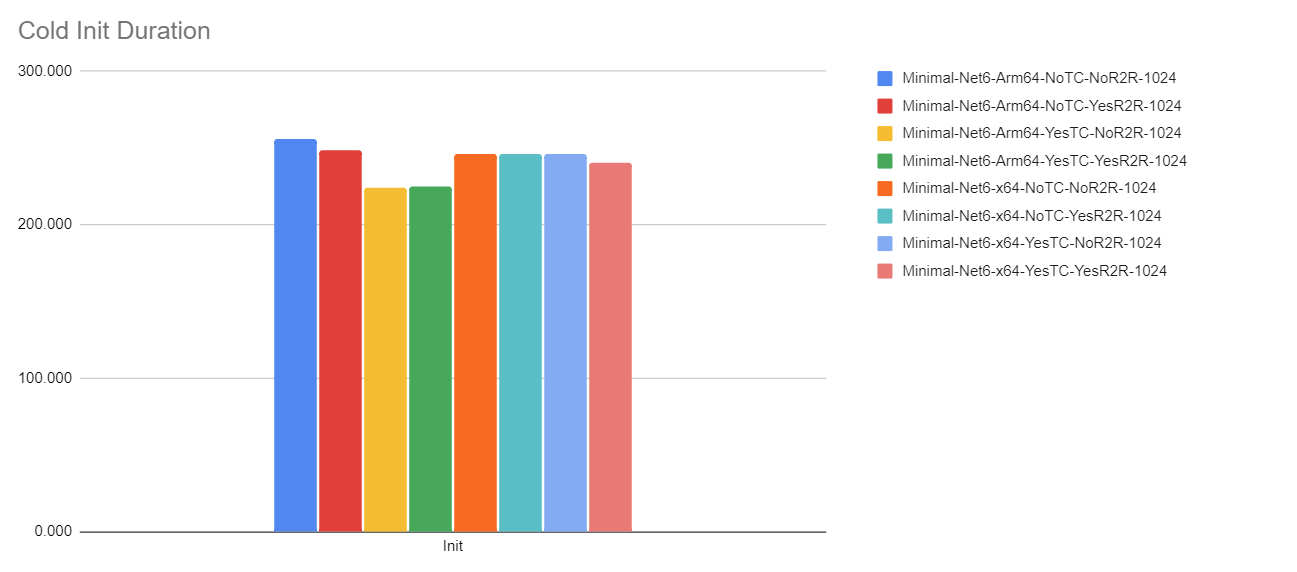
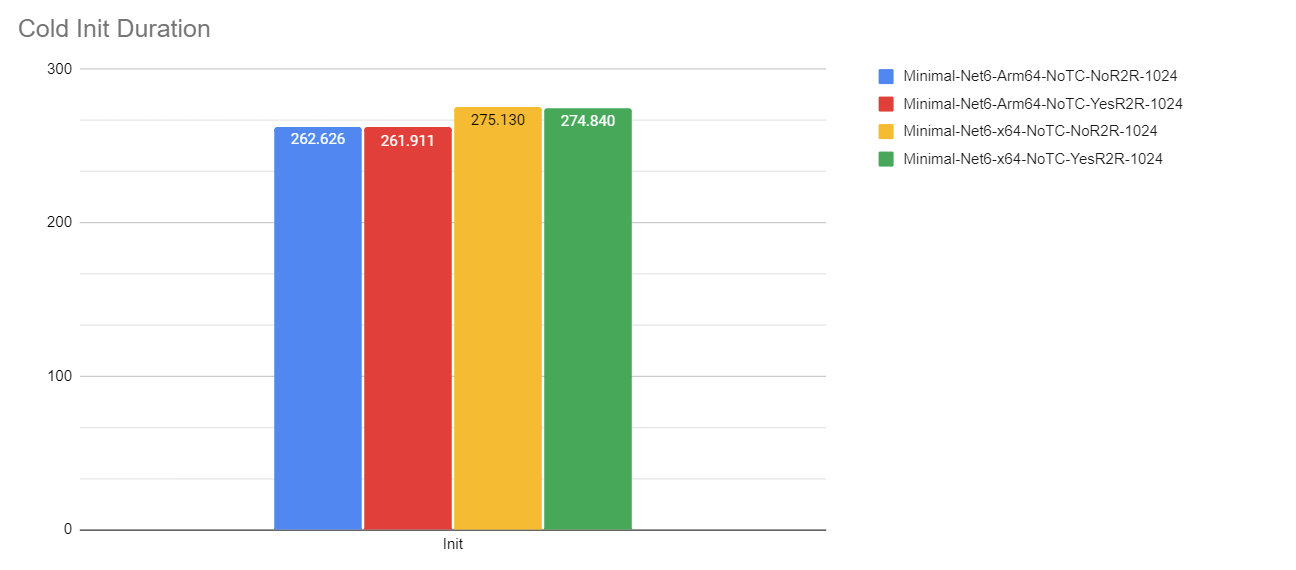
WIP

diff --git a/README.md b/README.md
@@ -5,24 +5,50 @@ This module is used to benchmark .NET Lambda functions with different compilatio
 The measurements are captured in an interactive [Google Sheets dashboard](https://docs.google.com/spreadsheets/d/1ULCEIbXPXFWzv8m-FMnh6b0T4acgZDavJxwY7-NKGdo/edit?usp=sharing).
 
 ## Projects
-1. [Minimal](Projects/Minimal/)
-1. [AwsSdk](Projects/AwsSdk/)
-1. [NewtonsoftJson](Projects/NewtonsoftJson/)
-1. [SystemTextJson](Projects/SystemTextJson/)
-1. [SourceGeneratorJson](Projects/SourceGeneratorJson/)
+1. [AwsSdk](Projects/AwsSdk/): benchmark using AWS .NET SDK
+1. [Minimal](Projects/Minimal/): minimal baseline project
+1. [NewtonsoftJson](Projects/NewtonsoftJson/): benchmark using Newtonsoft JSON.NET
+1. [SampleAwsNewtonsoftTopLevel](Projects/SampleAwsNewtonsoftTopLevel/)
+1. [SampleAwsSystemTextJsonTopLevel](Projects/SampleAwsSystemTextJsonTopLevel/)
+1. [SampleMinimalApi](Projects/SampleMinimalApi/)
+1. [SourceGeneratorJson](Projects/SourceGeneratorJson/): benchmark using .NET 6+ source generators for JSON parsing
+1. [SystemTextJson](Projects/SystemTextJson/): benchmark using System.Text.Json
+
+## Benchmark Results (CSV)
+
+1. [AwsSdk](Data/AwsSdk%20(2022-06-02).csv)
+1. [Minimal](Data/Minimal%20(2022-06-02).csv)
+1. [NewtonsoftJson](Data/NewtonsoftJson%20(2022-06-02).csv)
+1. [SampleAwsNewtonsoftTopLevel](Data/SampleAwsNewtonsoftTopLevel%20(2022-06-03).csv)
+1. TODO: [SampleAwsSystemTextJsonTopLevel](Data)
+1. [SampleMinimalApi](Data/SampleMinimalApi%20(2022-06-03).csv)
+1. [SourceGeneratorJson](Data/SourceGeneratorJson%20(2022-06-02).csv)
+1. [SystemTextJson](Data/SystemTextJson%20(2022-06-02).csv)
 
 ## Reports
-1. [Tiered Compilation and ReadyToRun Options](Docs/Tiered-Ready2Run-Options.md)
-1. TODO: .NET 6 vs. .NET 3.1
-1. TODO: ARM64 vs. x86-64
+1. TODO: .NET 6 vs. .NET Core 3.1
+    1. .NET 6
+        1. [Tiered Compilation and ReadyToRun Options](Docs/Tiered-Ready2Run-Options.md)
+        1. TODO: ARM64 vs. x86-64
+        1. TODO: Newtonsoft vs. System.Text.Json vs. Source Generators
+        1. TODO: Function vs. Custom Runtime vs. Top-Level Statements
+    1. .NET Core 3.1
 
-## Measurements
+## Using LambdaSharp.Benchmark
 
-1. [Minimal](Data/Minimal%20%5Bus-west-2%5D%20(2022-04-05).csv)
-1. [AwsSdk](Data/AwsSdk%20%5Bus-west-2%5D%20(2022-04-05).csv)
-1. [NewtonsoftJson](Data/NewtonsoftJson%20%5Bus-west-2%5D%20(2022-04-05).csv)
-1. [SystemTextJson](Data/SystemTextJson%20%5Bus-west-2%5D%20(2022-04-05).csv)
-1. [SourceGeneratorJson](Data/SourceGeneratorJson%20%5Bus-west-2%5D%20(2022-04-05).csv)
+TODO: how to deploy and analyze a project
+
+[Install LambdaSharp tooling and create a deployment tier.](https://lambdasharp.net)
+
+Deploy the LambdaSharp.Benchmark module to your AWS account.
+```bash
+lash deploy LambdaSharp.Benchmark@lambdasharp
+```
+
+Use the `measure.sh` script to package your project and upload it to the benchmarking S3 bucket.
+```bash
+measure.sh <PROJECT-TO-MEASURE> <NAME-OF-S3-BUCKET>
+```
 
 ## License
 

diff --git a/Docs/Ready2Run.md b/Docs/Ready2Run.md
@@ -1,0 +1,26 @@
+# Ready-to-Run Option
+
+
+## Overview
+
+_ReadyToRun_ is a form of ahead-of-time (AOT) compilation to improve startup performance by reducing the amount of work the just-in-time (JIT) compiler needs to do as your application loads. [Click here to learn more about _ReadyToRun_.](https://docs.microsoft.com/en-us/dotnet/core/deploying/ready-to-run)
+
+
+## Minimal API, .NET 6 Runtime, 1024MB, Tiered Compilation Off, ARM64
+
+![Minimal API, Cold Init Duration](SampleMinimalApi-Net6-Arm64-NoTC-X-1024-ColdInit.png)
+![Minimal API, Cold Used Duration](SampleMinimalApi-Net6-Arm64-NoTC-X-1024-ColdUsed.png)
+![Minimal API, Total Warm Used Duration](SampleMinimalApi-Net6-Arm64-NoTC-X-1024-TotalWarmUsed.png)
+
+## ARM64 vs. x64
+
+![Minimal API, Cold Init Duration](SampleMinimalApi-Net6-X-NoTC-YesR2R-1024-ColdInit.png)
+![Minimal API, Cold Used Duration](SampleMinimalApi-Net6-X-NoTC-YesR2R-1024-ColdUsed.png)
+![Minimal API, Total Warm Used Duration](SampleMinimalApi-Net6-X-NoTC-YesR2R-1024-TotalWarmUsed.png)
+
+## Memory Size: 128MB, 256MB, 512MB, 1024MB, vs. 1769MB
+
+![Minimal API, Cold Init Duration](SampleMinimalApi-Net6-Arm64-NoTC-YesR2R-X-ColdInit.png)
+![Minimal API, Cold Used Duration](SampleMinimalApi-Net6-Arm64-NoTC-YesR2R-X-ColdUsed.png)
+![Minimal API, Total Warm Used Duration](SampleMinimalApi-Net6-Arm64-NoTC-YesR2R-X-TotalWarmUsed.png)
+

diff --git a/Docs/Tiered-Ready2Run-Options.md b/Docs/Tiered-Ready2Run-Options.md
@@ -7,7 +7,7 @@ _ReadyToRun_ is a form of ahead-of-time (AOT) compilation to improve startup per
 
 ## Minimal Project
 
-The purpose of the _Minimal_ is to establish a baseline for all other .NET Lambda functions. Measurements of this Lambda function represent the lower bound of the AWS Lambda runtime for .NET projects.
+The purpose of the _Minimal_ project is to establish a baseline for all other .NET Lambda functions. Measurements of this Lambda function represent the lower bound of the AWS Lambda runtime for .NET projects.
 
 ### .NET 6 Runtime with 1024MB memory
 
